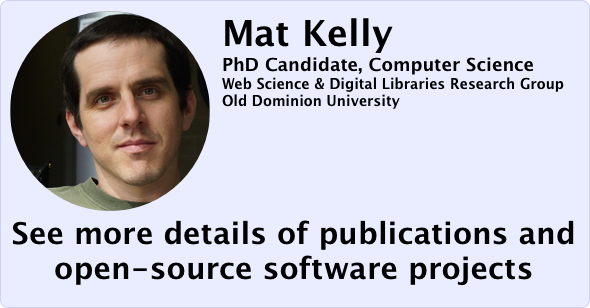
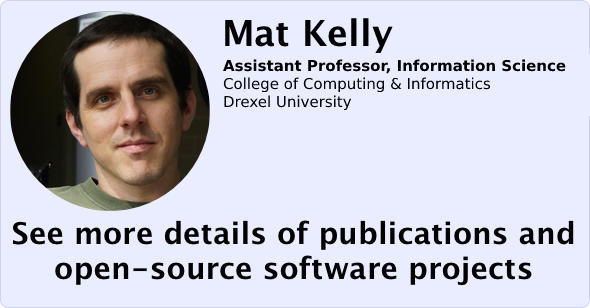
Drexel mv

Changed region(s): [[0.3661, 0.1753, 0.9763, 0.3506]]

diff --git a/index.html b/index.html
@@ -2,13 +2,10 @@
 <html lang="en">
   <head>
     <meta charset="utf-8">
-    <meta name="description" content="Homepage of Mat Kelly, PhD of Computer Science at Old Dominion University in Norfolk, Virginia." />
+    <meta name="description" content="Homepage of Mat Kelly, Assistant Professor of Information Science, Drexel University in Philadelphia, Pennsylvania." />
     <meta name="viewport" content="width=device-width, initial-scale=1.0" />
     <meta name="theme-color" content="#031fc9" />
-    <!--[if lt IE 9]>
-        <script src="_js/html5shiv.js"></script>
-    <![endif]-->
-    <title>Mat Kelly, PhD of Computer Science, Old Dominion University in Norfolk, Virginia</title>
+    <title>Mat Kelly, Assistant Professor of Information Science, Drexel University in Philadelphia, Pennsylvania</title>
     <link rel="stylesheet" href="style.css" media="all" />
     <link rel="author" href="https://plus.google.com/u/0/103717513886594190386" />
 
@@ -22,9 +19,9 @@
     <meta name="twitter:card" content="summary_large_image">
     <meta name="twitter:site" content="@machawk1">
     <meta name="twitter:title" content="Mat Kelly">
-    <meta name="twitter:description" content="Academic homepage of Mat Kelly, PhD of Computer Science at Old Dominion University.">
+    <meta name="twitter:description" content="Academic homepage of Mat Kelly, Assistant Professor of Information Science at Drexel University.">
     <meta name="twitter:creator" content="@machawk1">
-    <meta name="twitter:image" content="https://www.cs.odu.edu/~mkelly/twitterCard.png">
+    <meta name="twitter:image" content="http://www.pages.drexel.edu/~mrk335/twitterCard.png">
 
     <link rel="icon" sizes="192x192" href="images/favicon192.png">
     <link rel="apple-touch-icon" sizes="192x192" href="images/favicon192.png">
@@ -39,27 +36,28 @@
         #thumbnailFrame {height: 100px; overflow: hidden;}
         .otaygugel {display: none;}
         
-        #glider img {position: fixed; width: 126px; bottom: 5px; right: 37px; margin: 0; padding: 0; opacity: 0.9;}
+        #glider img {position: fixed; width: 126px; bottom: 5px; right: 37px; margin: 0; padding: 0; opacity: 0.9; display: none;}
         #glider img:hover {opacity: 1.0;}
         @media only screen and (min-width: 100px) and (max-width: 650px) {
           #glider {display: none;}
         }
     </style>
+    <base href="https://www.cs.odu.edu/~mkelly/"> <!-- Just until large PDFs find a new home. -->
   </head>
 
   <body>
     <header itemscope itemtype="https://schema.org/Person">
-    <p class="otaygugel">PhD of Computer Science at ODU in Norfolk, Virginia, USA</p>
+    <p class="otaygugel">Assistant Professor of Computer Science at Drexel University in Philadelphia, Pennsylvania, USA</p>
 
         <img src="mofro.png" alt="mug shot" id="mugShot" itemprop="photo" />
 
       <h1 itemprop="name">Mat Kelly</h1>
-      <h2 itemprop="title">PhD, Computer Science</h2>
-      <h3 itemprop="affiliation"><a href="https://ws-dl.cs.odu.edu" target="_blank" rel="external noopener noreferrer">Web Science &amp; Digital Libraries Research Group</a></h3>
-      <h3 itemprop="affiliation"><a href="https://odu.edu/" target="_blank" rel="external noopener noreferrer">Old Dominion University</a> &bull; Norfolk, Virginia &bull; USA</h3>
-      <h3 id="advisor">PhD Advisor: <a href=
+      <h2 itemprop="title">Assistant Professor, Information Science</h2>
+      <h3 itemprop="affiliation"><a href="https://drexel.edu/cci/"  target="_blank" rel="external noopener noreferrer">College of Computing &amp; Informatics</h3></h3>
+      <h3 itemprop="affiliation"><a href="https://drexel.edu" target="_blank" rel="external noopener noreferrer">Drexel University</a> &bull; Philadelphia, Pennsylvania &bull; USA</h3>
+      <!--<h3 id="advisor">PhD Advisor: <a href=
       "https://www.cs.odu.edu/~mweigle/" target="_blank" rel="external noopener noreferrer">Dr. Michele C. Weigle</a> <span>&bull;</span> Co-Advisor: <a href="https://www.cs.odu.edu/~mln/" target="_blank" rel="external noopener noreferrer">Dr. Michael L. Nelson</a></h3> 
-      <a id="glider" href="https://ws-dl.cs.odu.edu"  target="_blank" rel="external noopener noreferrer"><img src="images/glider126-trans.png" alt="WS-DL Glider logo" /></a>
+      <a id="glider" href="https://ws-dl.cs.odu.edu"  target="_blank" rel="external noopener noreferrer"><img src="images/glider126-trans.png" alt="WS-DL Glider logo" /></a>-->
     </header>
     <nav>
       <ul id="sections">
@@ -77,7 +75,7 @@
     <section id="currentProjects">
       <h2>Current/Upcoming Projects</h2>
         <ul>
-          <li>Preparing for new position as Assistant Professor at <a href="https://drexel.edu/cci/">Drexel University College of Computing &amp; Informatics</a> (September 2019).</li>
+          <li>Refining course content for INFO 600: Web Systems &amp; Architecture (Fall 2019) at <a href="https://drexel.edu/cci/">Drexel University</a>.</li>
           <li>Continued development of <a href="https://github.com/oduwsdl/ipwb">InterPlanetary Wayback (ipwb)</a>, <a href="https://warcreate.com">WARCreate</a>, <a href="https://matkelly.com/wail">Web Archiving Integration Layer (WAIL)</a>, and <a href="https://github.com/machawk1/mink">Mink</a>.</li>
         </ul>
     </section>
@@ -144,8 +142,8 @@
     <section id="recognitionAndParticipation">
       <h2>Recognition &amp; Participation</h2>
       <ul>
-        <li>Invited Guest Presenter, “<a href="presentations/2019_psu_aframework.pdf" target="_blank">A Framework for Aggregating Private and Public Web Archives</a>”, <a href="http://wang.ist.psu.edu/docs/home.shtml">James Z. Wang</a>'s Data Science course, Penn State University, February 2019.</li>
-        <li>Invited Guest Presenter, “<a href="presentations/2019_psu_tools.pdf" target="_blank">On Tool Building and Evaluation of the Archived Web</a>”, <a href="http://clgiles.ist.psu.edu/IST441/">IST441 - Information Retrieval and Search Engines</a>, Penn State University, February 2019.</li>
+        <li>Invited Guest Presenter, “<a href="presentations/2019_psu_aframework.pdf" target="_blank" rel="external noopener noreferrer">A Framework for Aggregating Private and Public Web Archives</a>”, <a href="http://wang.ist.psu.edu/docs/home.shtml">James Z. Wang</a>'s Data Science course, Penn State University, February 2019.</li>
+        <li>Invited Guest Presenter, “<a href="presentations/2019_psu_tools.pdf" target="_blank" rel="external noopener noreferrer">On Tool Building and Evaluation of the Archived Web</a>”, <a href="http://clgiles.ist.psu.edu/IST441/">IST441 - Information Retrieval and Search Engines</a>, Penn State University, February 2019.</li>
         <li>Organizing Committee, <a href="https://2019.jcdl.org/about/organizing-committees/">Publicity Chair</a>, <a href="https://2019.jcdl.org/">Joint Conference on Digital Libraries (JCDL) 2019</a>.</li>
         <li>Reviewer, <a href="https://2019.jcdl.org/">Joint Conference on Digital Libraries (JCDL) 2019</a>, February 2019.</li>
         <li>Reviewer, <a href="https://link.springer.com/journal/799">International Journal on Digital Libraries (IJDL)</a>, 2018.</li>
@@ -178,6 +176,7 @@
     <section id="teaching">
       <h2>Teaching</h2>
       <ul>
+        <li class="drexel">Fall 2019: INFO600 - Web Systems &amp; Architecture</li>
         <li class="oduphd">Spring 2015: <a href="https://www.cs.odu.edu/~mkelly/semester/2015_spring/cs418/">CS418 - Web Programming</a></li>
       </ul>
     </section>
@@ -453,7 +452,7 @@
 
     <h3>Coursework Key</h3>
     <ul>
-        <li class="oduphd">Doctor of Philosophy, Computer Science; Old Dominion University, Norfolk, Virginia, Expected 2019</li>
+        <li class="oduphd">Doctor of Philosophy, Computer Science; Old Dominion University, Norfolk, Virginia, 2019</li>
         <li class="odu">Master of Science, Computer Science; Old Dominion University, Norfolk, Virginia, August 2012</li>
         <li class="citadel">Coursework for Master of Science, Computer Science; The Citadel, Charleston, South Carolina</li>
         <li class="uf">Bachelor of Science, Computer Science; University of Florida, Gainesville, Florida, June 2006</li>
@@ -477,7 +476,7 @@
 <section id="contact">
     <h2>Contact</h2>
     <ul>
-        <li>mkelly at cs.odu.edu (E-mail)</li>
+        <li>mkelly at drexel.edu (E-mail)</li>
         <li><a href="https://twitter.com/machawk1" rel="me">@machawk1</a> (Twitter)</li>
         <li><a href="https://github.com/machawk1" rel="me">@machawk1</a> (GitHub)</li>
         <li><a href="https://scholar.google.com/citations?user=ehg7mloAAAAJ">Mat Kelly @ Google Scholar</a></li>

diff --git a/style.css b/style.css
@@ -6,9 +6,15 @@
   unicode-range: U+0000-00FF, U+0131, U+0152-0153, U+02C6, U+02DA, U+02DC, U+2000-206F, U+2074, U+20AC, U+2212, U+2215;
 }
 
+@font-face {
+  font-family: 'Manrope Medium';
+  font-style: normal;
+  font-weight: 400;
+  src: local('Manrope Medium'), local('Manrope-medium'), url(./_font/manrope-medium.woff2) format('woff2');
+  unicode-range: U+0000-00FF, U+0131, U+0152-0153, U+02C6, U+02DA, U+02DC, U+2000-206F, U+2074, U+20AC, U+2212, U+2215;
+}
 
-
-body {background-color: white; font-size: 16px; font-family: 'IM Fell English', "Helvetica", serif; color: #333; font-display: swap;}
+body {background-color: white; font-size: 16px; font-family: Georgia, Times, ‘Times New Roman’, serif; color: #333; font-display: swap;}
 header {margin-bottom: 1.0em; font-family: 'IM Fell English', serif;}
 
 h1,h2,h3 {margin: 0; padding: 0; font-weight: 900; color: #333;}
@@ -23,11 +29,12 @@ li.uf {list-style-image: url(bullet_uf.png);}
 li.odu {list-style-image: url(bullet_odu.png);}
 li.citadel {list-style-image: url(bullet_citadel.png);}
 li.oduphd {list-style-image: url(bullet_oduphd.png);}
+li.drexel {list-style-image: url(bullet_drexel.png);}
 
 ul li ul li {list-style-image: none;} /* only show icon for semesters, not courses */
 a {color: #031fc9;}
 nav {position: fixed; right: 5px; top: 205px; text-align: center; z-index: 2;}
-nav ul {list-style-type: none; width: 206px; }
+nav ul {list-style-type: none; width: 206px;}
 nav ul#sections li {margin: 0; padding: 0; border-bottom: 1px dashed #003366;}
 nav ul#sections li a {text-decoration: none; color: #031fc9; font-weight: bold; font-family: 'IM Fell English', sans-serif; font-size: 0.8em; display: block;}
 nav ul#sections li a:hover {color: white; background-color: #031fc9;}
@@ -40,6 +47,7 @@ nav ul li#cv a {border: 1px solid #031fc9; border-radius: 10px; background-color
 em.me {font-weight: bolder; font-style: normal; color: #000099;}
 em.best {font-weight: bolder; color: #FA4616;}
 
+body section > ul {padding-left: 2.0em;}
 body section > ul > li {margin-bottom: 0.25em;}
 
 #openMenu {display: none;}
@@ -86,8 +94,9 @@ h3#advisor {margin-right: 200px;}
   header {margin-bottom: 0;}
   a.goToTop {display: inline; margin-left: 1.0em; font-size: 0.8em; color: white; background-color: blue; text-decoration: none; font-family: sans-serif; white-space: nowrap;}
   section {width: 100%;}
-  section ul {list-style-type: none; margin-left: 0;}
-  section ul li {margin-bottom: 1.0em;}
+  section ul {list-style-type: none; margin: 0.5em auto 0.5em 0.5em;}
+  section ul li {margin: 0 1.0em 1.5em 1.0em; list-style-type: circle;}
+  section#papersPostersAndPresentations ul li {margin-left: 0; margin-bottom: 0.5em;}
   section#courseworkHistory {width: 80%;}
   section#courseworkHistory ul {list-style-type: disc; margin-left: 1.0em;}
   section#courseworkHistory ul ul {margin-left: -2.0em;}
@@ -110,7 +119,8 @@ h3#advisor {margin-right: 200px;}
   section {position: relative; z-index: 2;}
   nav ul li#cv {font-size: 1.0em; margin-top: 1.0em; border: 0; text-align center;}
   nav ul li#cv a {padding-left: 1.0em;}
-  nav ul li#cv a:before{content: '⇩ DOWNLOAD ';}
+  nav ul li#cv a:before{content: '⤓ DOWNLOAD ';}
+  nav ul li#cv {border: 1px solid #031fc9; border-radius: 10px; background-color: inherit;}
   
   #ppp_filter {width: 100%;}
   #ppp_filter li {padding: 0; margin: 0 0 0.5em 0; border: 1px solid white; width: 19%; text-align: center; height: 3.5em; display: inline-block; border-bottom: 2px solid #ccccff; vertical-align: bottom;}
@@ -119,6 +129,10 @@ h3#advisor {margin-right: 200px;}
   #ppp_filter li:hover:not(.ppp_active) {border: 1px dotted blue;}
   header:not(.pinned) h3#advisor {margin-right: auto;}
   header:not(.pinned) h3#advisor span {display: block; color: transparent; clear: both; height: 0px;}
+
+  li.uf, li.odu, li.citadel, li.oduphd, li.drexel {list-style-image: none;}
+  body section > ul { padding: 0;}
+  em.best {white-space: nowrap;}
 }
 
 @media (prefers-color-scheme: dark) {
@@ -134,17 +148,17 @@ h3#advisor {margin-right: 200px;}
     header h3 a {color: inherit; text-decoration: none;}
     header h3 a:hover {color: #FA4616; text-decoration: underline;}
     
-    nav ul#sections li a {color: #FA4616;}
+    nav ul#sections li a {color: #FA4616; padding-left: 0.5em;}
     nav ul#sections li a:hover {color: white; background-color: #FA4616;}
     nav ul#sections li {border-bottom: 1px dashed #FA4616;}
-    nav ul li#cv {border-bottom: none;}
-    nav ul li#cv a {border: 1px solid #FA4616;}
+    nav ul li#cv {border-bottom: none; background-color: inherit;}
+    nav ul li#cv a {border: 1px solid #FA4616; background-color: white;}
     #ppp a {color: #FA4616;}
     em.me {font-weight: bolder; font-style: normal; color: #FA4616;}
     
     img#mugShot {border: 1px solid #FA4616;}
     
-    em.best {color: #0021A5;}
+    em.best {color: #0021A5; }
     
     #ppp_filter li:hover:not(.ppp_active) {border: 1px dotted #FA4616;}
 }
@@ -152,4 +166,5 @@ h3#advisor {margin-right: 200px;}
 
 @media only screen and (min-width: 100px) and (max-width: 650px) and (prefers-color-scheme: dark) {
  .pinned {background: linear-gradient(to bottom, rgb(33,33,33,1) 80%, rgba(255,255,255,0) 100%); position: fixed; z-index: 3; top: 0; width: 100%; padding-bottom: 1.5em;}
+ nav ul li#cv {background-color: white;}
 }
